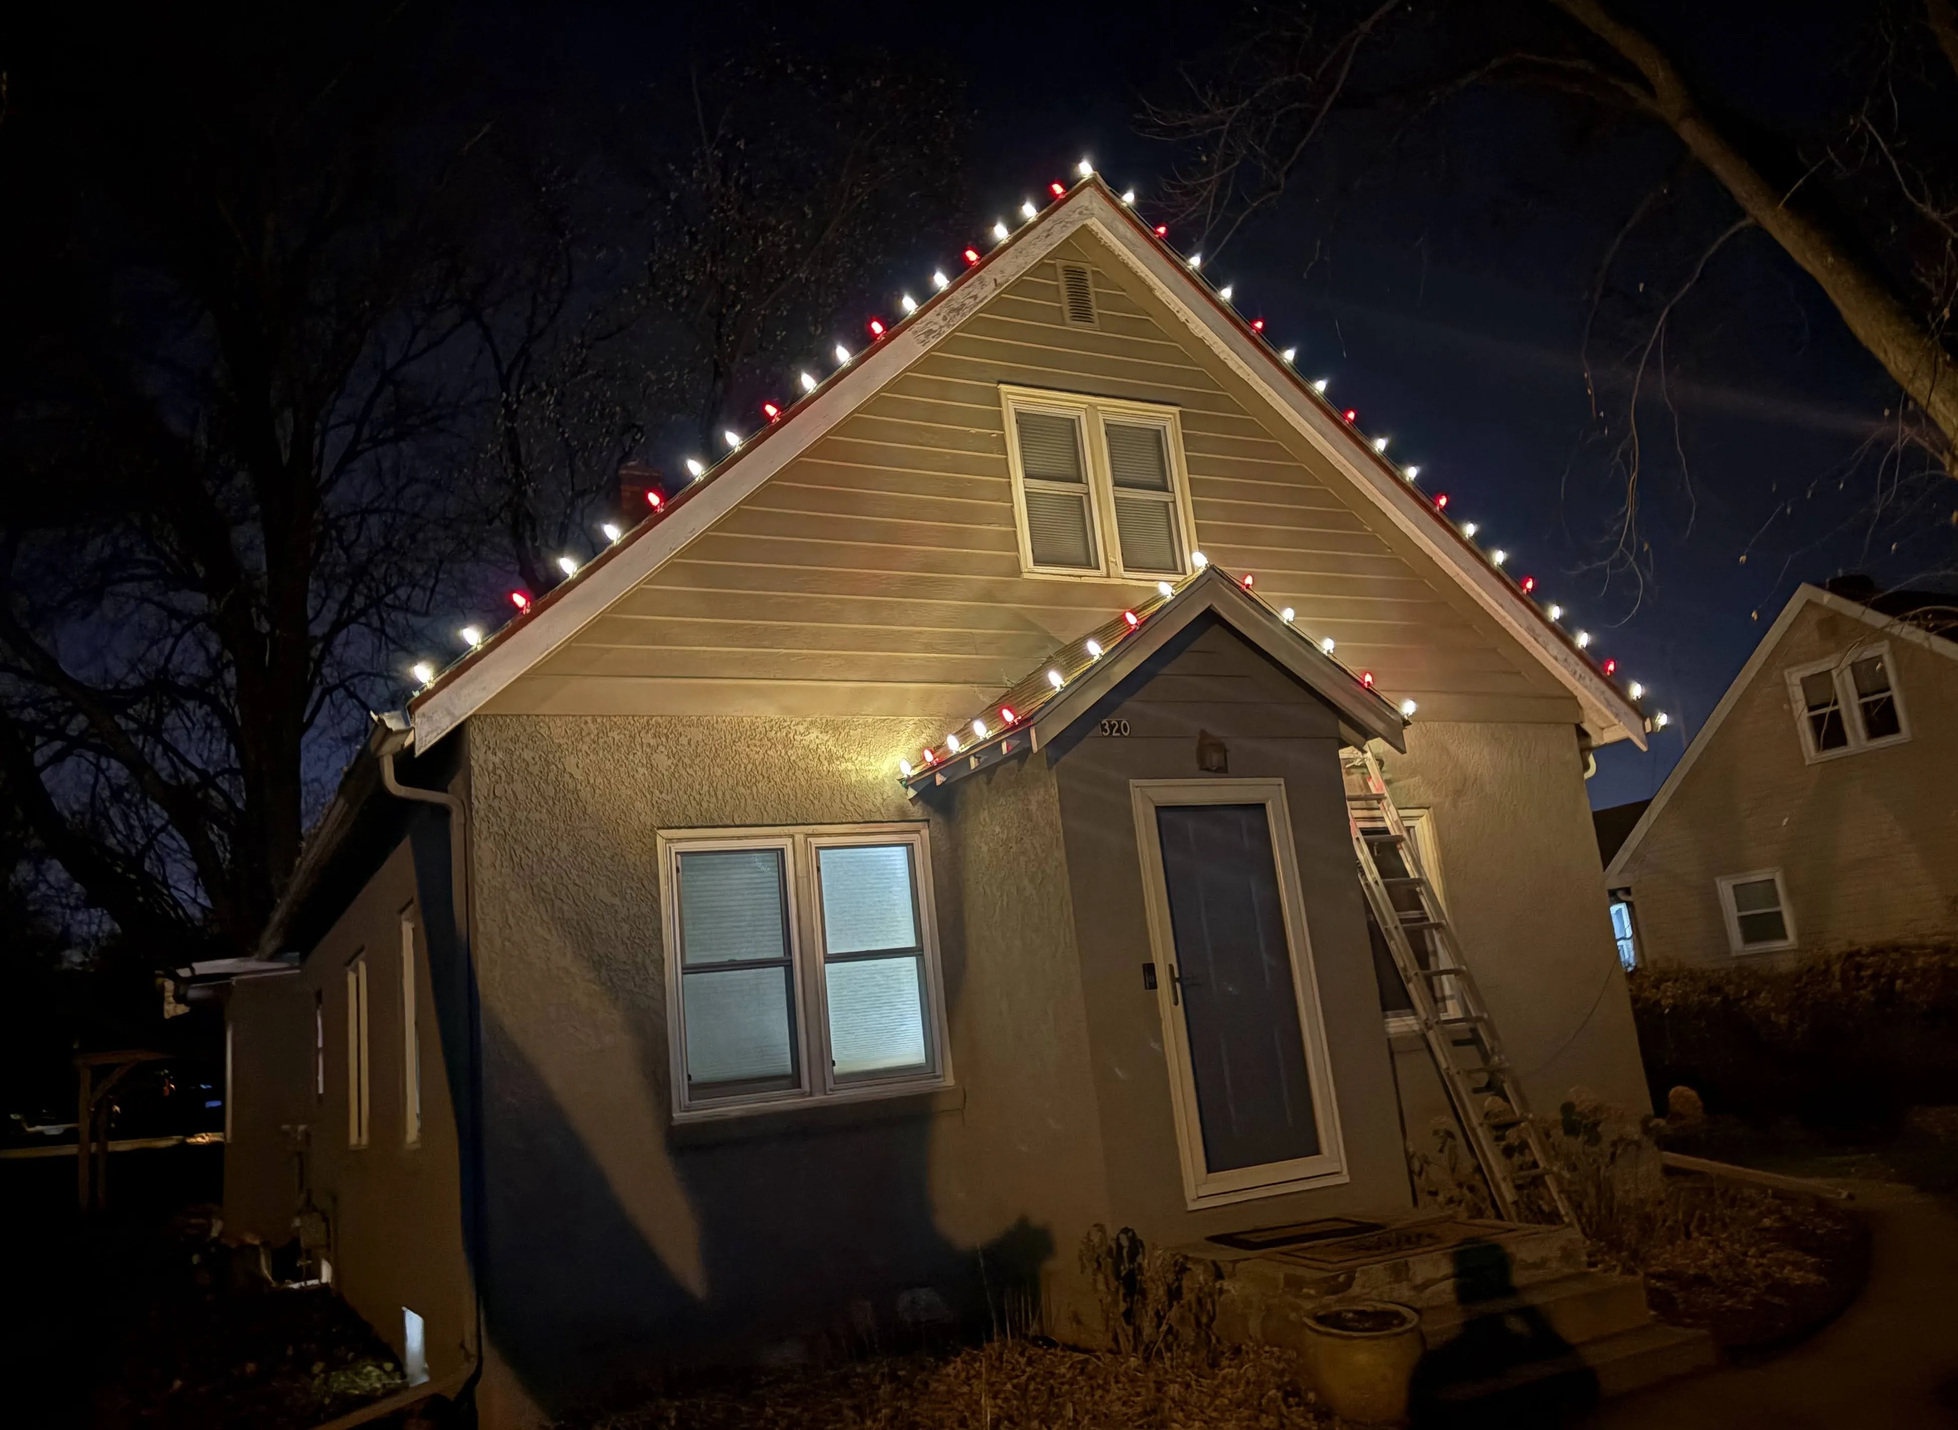
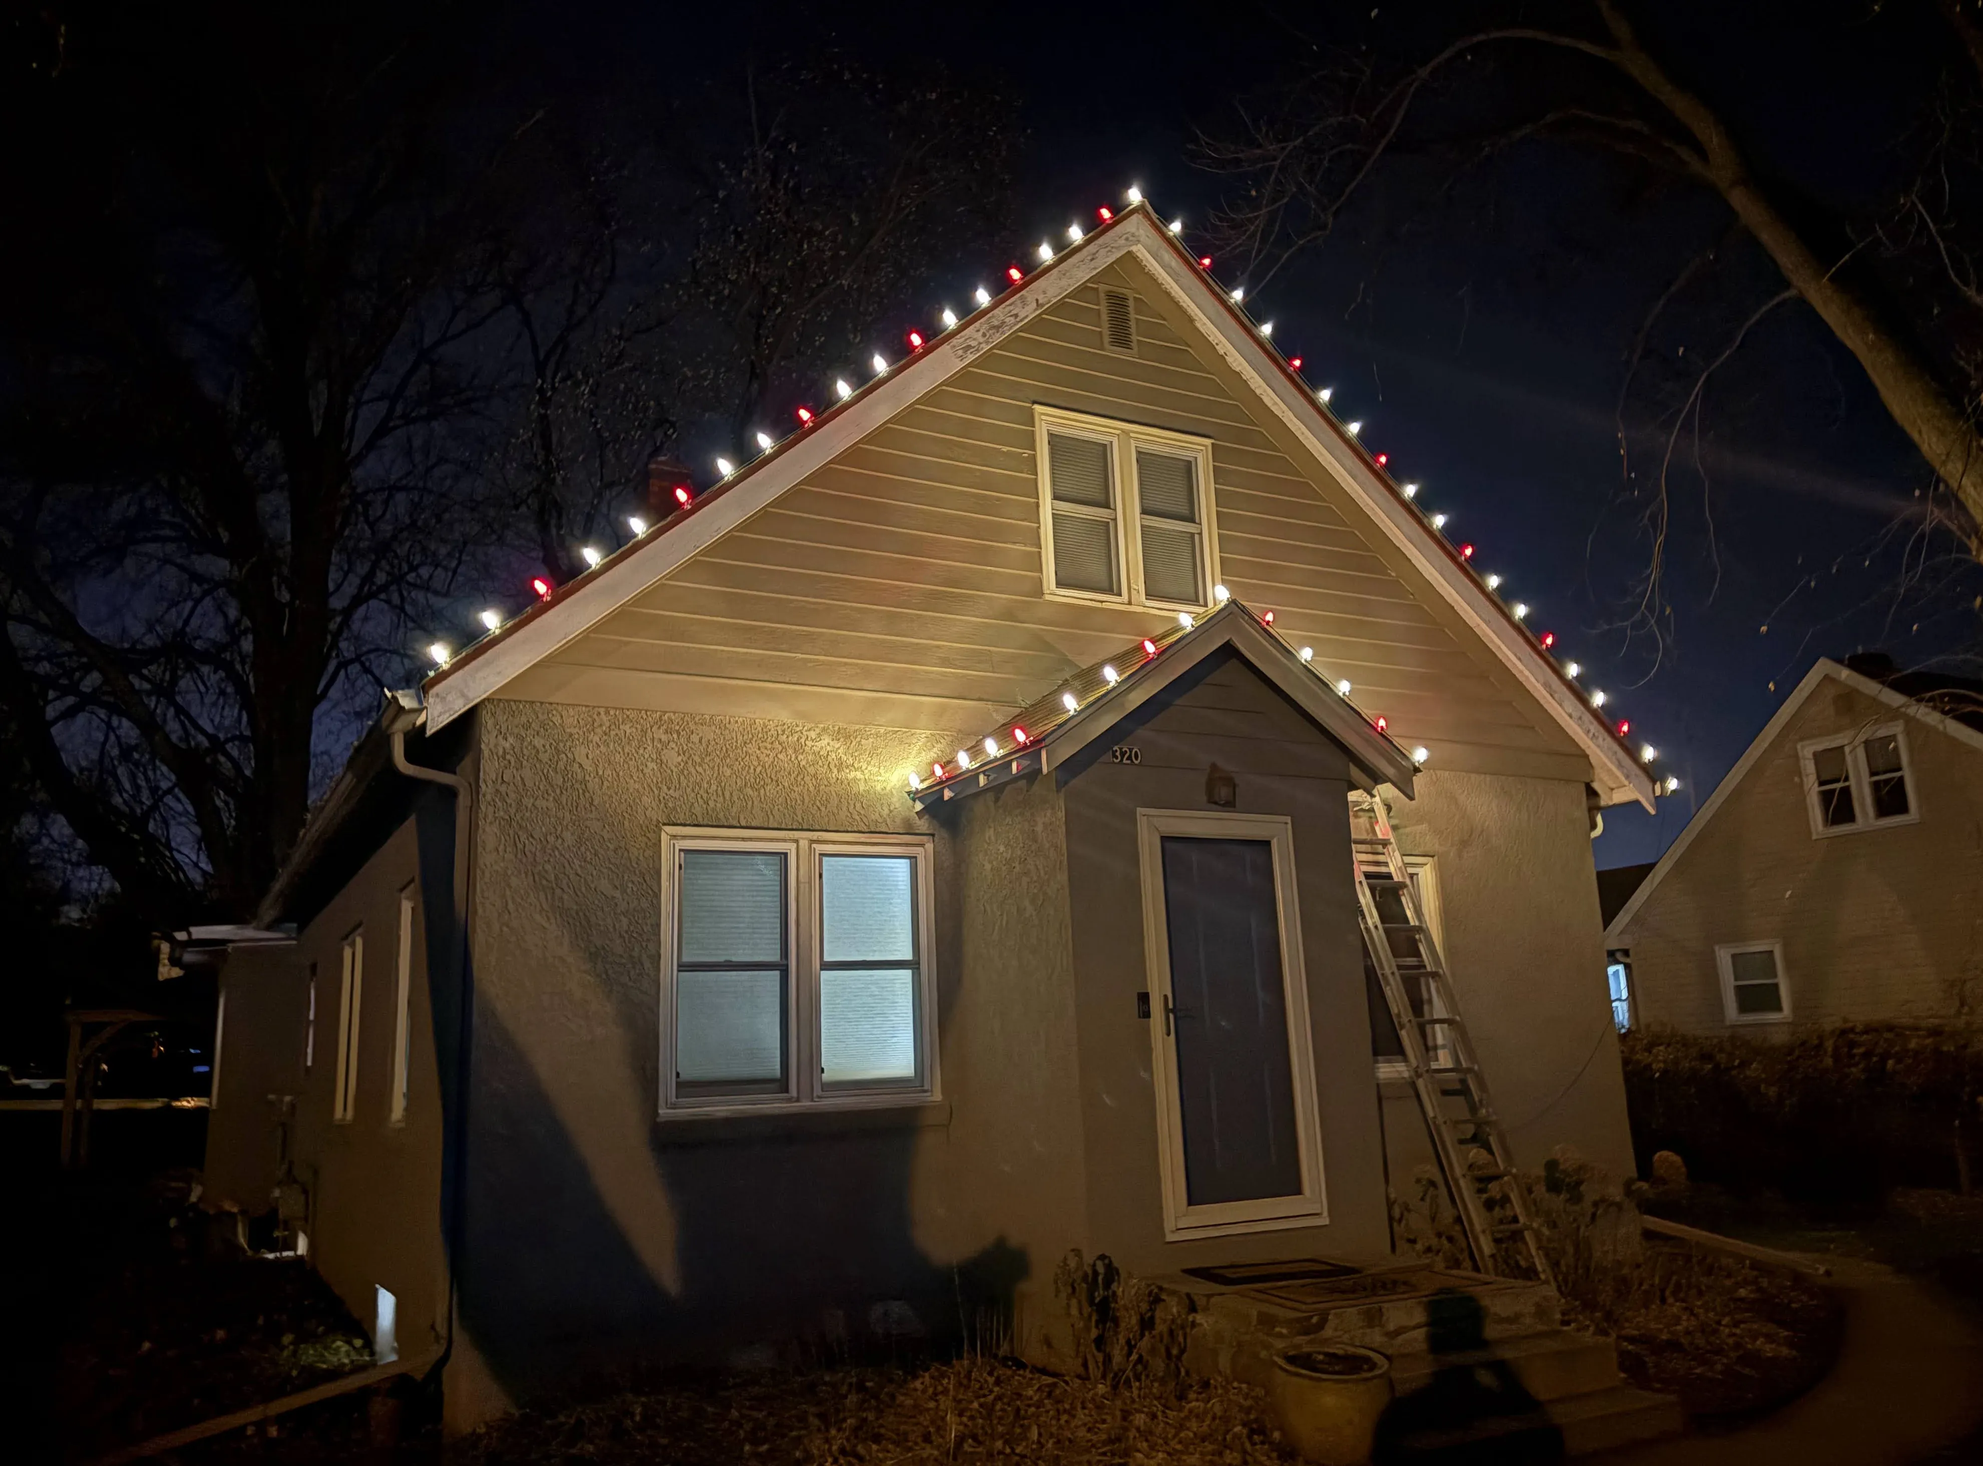
Level the candy-cane photo and pair the gables photo with copy
The candy-cane photo was still visibly tilted. Measuring the orientation
of strong near-vertical edges (door frame, window frames, house corner)
showed the earlier correction had been applied in the wrong direction:
PIL's positive rotation is counter-clockwise, which added to the lean
rather than removing it, taking it from +1.4 deg to +3.7 deg.

Rather than stack a third rotation on an already-rotated, already-cropped
file, this re-derives from the pristine original recovered out of git
history and applies a single -1.4 deg correction. Residual lean is now
+0.05 deg. Derivatives regenerate from the new source, so the gallery
picks up a slightly different intrinsic height.

The craftsman-gables photo sat alone in a full-width band with nothing
around it. It now anchors a standard .split section beside the "Why
Barta" copy, matching the pattern already used on the residential page.
That copy comes from the service's why_barta field, which until now was
defined but never rendered anywhere.

Claude-Session: https://claude.ai/code/session_01WscfW7U3vZd4WemqUDrm97

diff --git a/services/christmas-light-installation.html b/services/christmas-light-installation.html
@@ -128,7 +128,15 @@
   </section>
   <section>
     <div class="container">
-      <div class="reveal"><div class="photo " style="aspect-ratio:21/9" role="img" aria-label="White holiday lights tracing the gables of a craftsman-style home above a snow-covered driveway"><span class="imgph" aria-hidden="true"><span class="ph-label"><svg viewBox="0 0 24 24" fill="none" stroke="currentColor" stroke-width="1.9" stroke-linecap="round" stroke-linejoin="round" aria-hidden="true"><rect x="3" y="4" width="18" height="16" rx="2"/><circle cx="8.5" cy="9.5" r="1.5"/><path d="m4 17 5-5 4 4 3-3 4 4"/></svg><br>White holiday lights tracing the gables of a craftsman-style home above a snow-covered driveway</span></span><picture><source type="image/webp" srcset="../assets/img/xmas-lights-craftsman-gables-640w.webp 640w, ../assets/img/xmas-lights-craftsman-gables-1200w.webp 1200w" sizes="100vw"><img class="" src="../assets/img/xmas-lights-craftsman-gables-1200w.jpg" srcset="../assets/img/xmas-lights-craftsman-gables-640w.jpg 640w, ../assets/img/xmas-lights-craftsman-gables-1200w.jpg 1200w" sizes="100vw" alt="White holiday lights tracing the gables of a craftsman-style home above a snow-covered driveway" width="1200" height="900" loading="lazy" decoding="async" onerror="this.remove()"></picture></div></div>
+      <div class="split">
+        <div class="reveal">
+          <span class="eyebrow">Why Barta</span>
+          <h2 class="mt-1">Lights that follow your roofline</h2>
+          <p>Co-owner Jacob Barta oversees your design consultation, and co-owner Alex Barta leads the crew that installs every holiday lighting job, so you get a display planned to actually match your roofline instead of looking like an afterthought. Every install is fully insured — no icy ladders, no risk to you — and covered by in-season maintenance, so if a strand fails in January, that's on us to fix, not you.</p>
+          <a class="btn mt-3" href="../get-quote.html?svc=christmas-light-installation">Get Your Quote <svg viewBox="0 0 24 24" fill="none" stroke="currentColor" stroke-width="1.9" stroke-linecap="round" stroke-linejoin="round" aria-hidden="true"><path d="M5 12h14M13 6l6 6-6 6"/></svg></a>
+        </div>
+        <div class="reveal"><div class="photo " style="aspect-ratio:5/4" role="img" aria-label="White holiday lights tracing the gables of a craftsman-style home above a snow-covered driveway"><span class="imgph" aria-hidden="true"><span class="ph-label"><svg viewBox="0 0 24 24" fill="none" stroke="currentColor" stroke-width="1.9" stroke-linecap="round" stroke-linejoin="round" aria-hidden="true"><rect x="3" y="4" width="18" height="16" rx="2"/><circle cx="8.5" cy="9.5" r="1.5"/><path d="m4 17 5-5 4 4 3-3 4 4"/></svg><br>White holiday lights tracing the gables of a craftsman-style home above a snow-covered driveway</span></span><picture><source type="image/webp" srcset="../assets/img/xmas-lights-craftsman-gables-640w.webp 640w, ../assets/img/xmas-lights-craftsman-gables-1200w.webp 1200w" sizes="100vw"><img class="" src="../assets/img/xmas-lights-craftsman-gables-1200w.jpg" srcset="../assets/img/xmas-lights-craftsman-gables-640w.jpg 640w, ../assets/img/xmas-lights-craftsman-gables-1200w.jpg 1200w" sizes="100vw" alt="White holiday lights tracing the gables of a craftsman-style home above a snow-covered driveway" width="1200" height="900" loading="lazy" decoding="async" onerror="this.remove()"></picture></div></div>
+      </div>
     </div>
   </section>
 
@@ -153,7 +161,7 @@
         <div class="prose reveal">
           <h2 class="mt-0">Christmas Light Installation at Barta Window Washing</h2>
           <p>The magic of a beautifully lit home — without a single trip up a frozen ladder. Barta designs a custom holiday display for your rooflines, walkways, trees, and shrubs, installs premium commercial-grade lighting, and keeps it shining all season. When the holidays end, we take everything down and store it for next year. You enjoy the lights; we handle everything else.</p>
-          <div style="margin:26px 0"><div class="photo " style="aspect-ratio:3/2" role="img" aria-label="Red and white holiday lights installed along a bungalow's roofline at night"><span class="imgph" aria-hidden="true"><span class="ph-label"><svg viewBox="0 0 24 24" fill="none" stroke="currentColor" stroke-width="1.9" stroke-linecap="round" stroke-linejoin="round" aria-hidden="true"><rect x="3" y="4" width="18" height="16" rx="2"/><circle cx="8.5" cy="9.5" r="1.5"/><path d="m4 17 5-5 4 4 3-3 4 4"/></svg><br>Red and white holiday lights installed along a bungalow's roofline at night</span></span><picture><source type="image/webp" srcset="../assets/img/xmas-lights-candy-cane-640w.webp 640w, ../assets/img/xmas-lights-candy-cane-1200w.webp 1200w" sizes="100vw"><img class="" src="../assets/img/xmas-lights-candy-cane-1200w.jpg" srcset="../assets/img/xmas-lights-candy-cane-640w.jpg 640w, ../assets/img/xmas-lights-candy-cane-1200w.jpg 1200w" sizes="100vw" alt="Red and white holiday lights installed along a bungalow's roofline at night" width="1200" height="877" loading="lazy" decoding="async" onerror="this.remove()"></picture></div></div>
+          <div style="margin:26px 0"><div class="photo " style="aspect-ratio:3/2" role="img" aria-label="Red and white holiday lights installed along a bungalow's roofline at night"><span class="imgph" aria-hidden="true"><span class="ph-label"><svg viewBox="0 0 24 24" fill="none" stroke="currentColor" stroke-width="1.9" stroke-linecap="round" stroke-linejoin="round" aria-hidden="true"><rect x="3" y="4" width="18" height="16" rx="2"/><circle cx="8.5" cy="9.5" r="1.5"/><path d="m4 17 5-5 4 4 3-3 4 4"/></svg><br>Red and white holiday lights installed along a bungalow's roofline at night</span></span><picture><source type="image/webp" srcset="../assets/img/xmas-lights-candy-cane-640w.webp 640w, ../assets/img/xmas-lights-candy-cane-1200w.webp 1200w" sizes="100vw"><img class="" src="../assets/img/xmas-lights-candy-cane-1200w.jpg" srcset="../assets/img/xmas-lights-candy-cane-640w.jpg 640w, ../assets/img/xmas-lights-candy-cane-1200w.jpg 1200w" sizes="100vw" alt="Red and white holiday lights installed along a bungalow's roofline at night" width="1200" height="887" loading="lazy" decoding="async" onerror="this.remove()"></picture></div></div>
           <h3>The benefits you'll notice</h3>
           <ul class="checklist"><li><svg viewBox="0 0 24 24" fill="none" stroke="currentColor" stroke-width="1.9" stroke-linecap="round" stroke-linejoin="round" aria-hidden="true"><circle cx="12" cy="12" r="9"/><path d="m8.5 12 2.5 2.5 4.5-5"/></svg> <span><strong>Custom-cut strands:</strong> Every strand is measured and cut to your roofline and peaks — no extra lights or cords hanging off your home.</span></li><li><svg viewBox="0 0 24 24" fill="none" stroke="currentColor" stroke-width="1.9" stroke-linecap="round" stroke-linejoin="round" aria-hidden="true"><circle cx="12" cy="12" r="9"/><path d="m8.5 12 2.5 2.5 4.5-5"/></svg> <span><strong>Premium commercial-grade LED bulbs:</strong> Bright, energy-efficient LED bulbs built to outlast a Minnesota winter and look sharp season after season.</span></li><li><svg viewBox="0 0 24 24" fill="none" stroke="currentColor" stroke-width="1.9" stroke-linecap="round" stroke-linejoin="round" aria-hidden="true"><circle cx="12" cy="12" r="9"/><path d="m8.5 12 2.5 2.5 4.5-5"/></svg> <span><strong>Takedown &amp; storage included:</strong> When the season's over, we take it all down and store it for you — built into your price, not an extra add-on.</span></li><li><svg viewBox="0 0 24 24" fill="none" stroke="currentColor" stroke-width="1.9" stroke-linecap="round" stroke-linejoin="round" aria-hidden="true"><circle cx="12" cy="12" r="9"/><path d="m8.5 12 2.5 2.5 4.5-5"/></svg> <span><strong>Clips that last:</strong> Heavy-duty clips grip any roofline, shingle, or gutter without damage — built to hold through the hardest winter months.</span></li><li><svg viewBox="0 0 24 24" fill="none" stroke="currentColor" stroke-width="1.9" stroke-linecap="round" stroke-linejoin="round" aria-hidden="true"><circle cx="12" cy="12" r="9"/><path d="m8.5 12 2.5 2.5 4.5-5"/></svg> <span><strong>Proper safety equipment:</strong> Our insured crew climbs so you don't have to — full safety gear every time, so nobody's risking a fall on an icy ladder.</span></li><li><svg viewBox="0 0 24 24" fill="none" stroke="currentColor" stroke-width="1.9" stroke-linecap="round" stroke-linejoin="round" aria-hidden="true"><circle cx="12" cy="12" r="9"/><path d="m8.5 12 2.5 2.5 4.5-5"/></svg> <span><strong>Upfront, honest pricing:</strong> Clear pricing before we start — no surprise fees and no pressure, just an honest quote for a beautifully lit home.</span></li></ul>
           <h3>What's included</h3>

diff --git a/gallery.html b/gallery.html
@@ -114,7 +114,7 @@
   <span class="ba-handle"></span>
   <span class="ba-knob"><svg viewBox="0 0 24 24" fill="none" stroke="currentColor" stroke-width="1.9" stroke-linecap="round" stroke-linejoin="round" aria-hidden="true"><path d="M12 3v18M8 7 4 11l4 4M16 7l4 4-4 4"/></svg></span>
   <input class="ba-range" type="range" min="0" max="100" value="50" aria-label="Reveal more of the before or after image">
-</div></figure><figure class="reveal"><picture><source type="image/webp" srcset="assets/img/svc-hand-scrubbing-640w.webp 640w, assets/img/svc-hand-scrubbing-1200w.webp 1200w" sizes="(max-width: 760px) 50vw, 33vw"><img class="" src="assets/img/svc-hand-scrubbing-1200w.jpg" srcset="assets/img/svc-hand-scrubbing-640w.jpg 640w, assets/img/svc-hand-scrubbing-1200w.jpg 1200w" sizes="(max-width: 760px) 50vw, 33vw" alt="Hand-scrubbing a window pane with an abrasive pad" width="1126" height="1499" loading="lazy" decoding="async"></picture></figure><figure class="reveal"><picture><source type="image/webp" srcset="assets/img/svc-christmas-light-installation-640w.webp 640w, assets/img/svc-christmas-light-installation-1200w.webp 1200w" sizes="(max-width: 760px) 50vw, 33vw"><img class="" src="assets/img/svc-christmas-light-installation-1200w.jpg" srcset="assets/img/svc-christmas-light-installation-640w.jpg 640w, assets/img/svc-christmas-light-installation-1200w.jpg 1200w" sizes="(max-width: 760px) 50vw, 33vw" alt="Warm white holiday lights installed along a home's roofline at night" width="1200" height="1600" loading="lazy" decoding="async"></picture></figure><figure class="reveal"><picture><source type="image/webp" srcset="assets/img/xmas-lights-candy-cane-640w.webp 640w, assets/img/xmas-lights-candy-cane-1200w.webp 1200w" sizes="(max-width: 760px) 50vw, 33vw"><img class="" src="assets/img/xmas-lights-candy-cane-1200w.jpg" srcset="assets/img/xmas-lights-candy-cane-640w.jpg 640w, assets/img/xmas-lights-candy-cane-1200w.jpg 1200w" sizes="(max-width: 760px) 50vw, 33vw" alt="Red and white holiday lights installed along a bungalow's roofline at night" width="1200" height="877" loading="lazy" decoding="async"></picture></figure><figure class="reveal"><picture><source type="image/webp" srcset="assets/img/xmas-lights-craftsman-gables-640w.webp 640w, assets/img/xmas-lights-craftsman-gables-1200w.webp 1200w" sizes="(max-width: 760px) 50vw, 33vw"><img class="" src="assets/img/xmas-lights-craftsman-gables-1200w.jpg" srcset="assets/img/xmas-lights-craftsman-gables-640w.jpg 640w, assets/img/xmas-lights-craftsman-gables-1200w.jpg 1200w" sizes="(max-width: 760px) 50vw, 33vw" alt="White holiday lights tracing the gables of a craftsman-style home above a snow-covered driveway" width="1200" height="900" loading="lazy" decoding="async"></picture></figure><figure class="gallery-ba reveal"><div class="ba" role="group" aria-label="Before and after comparison slider">
+</div></figure><figure class="reveal"><picture><source type="image/webp" srcset="assets/img/svc-hand-scrubbing-640w.webp 640w, assets/img/svc-hand-scrubbing-1200w.webp 1200w" sizes="(max-width: 760px) 50vw, 33vw"><img class="" src="assets/img/svc-hand-scrubbing-1200w.jpg" srcset="assets/img/svc-hand-scrubbing-640w.jpg 640w, assets/img/svc-hand-scrubbing-1200w.jpg 1200w" sizes="(max-width: 760px) 50vw, 33vw" alt="Hand-scrubbing a window pane with an abrasive pad" width="1126" height="1499" loading="lazy" decoding="async"></picture></figure><figure class="reveal"><picture><source type="image/webp" srcset="assets/img/svc-christmas-light-installation-640w.webp 640w, assets/img/svc-christmas-light-installation-1200w.webp 1200w" sizes="(max-width: 760px) 50vw, 33vw"><img class="" src="assets/img/svc-christmas-light-installation-1200w.jpg" srcset="assets/img/svc-christmas-light-installation-640w.jpg 640w, assets/img/svc-christmas-light-installation-1200w.jpg 1200w" sizes="(max-width: 760px) 50vw, 33vw" alt="Warm white holiday lights installed along a home's roofline at night" width="1200" height="1600" loading="lazy" decoding="async"></picture></figure><figure class="reveal"><picture><source type="image/webp" srcset="assets/img/xmas-lights-candy-cane-640w.webp 640w, assets/img/xmas-lights-candy-cane-1200w.webp 1200w" sizes="(max-width: 760px) 50vw, 33vw"><img class="" src="assets/img/xmas-lights-candy-cane-1200w.jpg" srcset="assets/img/xmas-lights-candy-cane-640w.jpg 640w, assets/img/xmas-lights-candy-cane-1200w.jpg 1200w" sizes="(max-width: 760px) 50vw, 33vw" alt="Red and white holiday lights installed along a bungalow's roofline at night" width="1200" height="887" loading="lazy" decoding="async"></picture></figure><figure class="reveal"><picture><source type="image/webp" srcset="assets/img/xmas-lights-craftsman-gables-640w.webp 640w, assets/img/xmas-lights-craftsman-gables-1200w.webp 1200w" sizes="(max-width: 760px) 50vw, 33vw"><img class="" src="assets/img/xmas-lights-craftsman-gables-1200w.jpg" srcset="assets/img/xmas-lights-craftsman-gables-640w.jpg 640w, assets/img/xmas-lights-craftsman-gables-1200w.jpg 1200w" sizes="(max-width: 760px) 50vw, 33vw" alt="White holiday lights tracing the gables of a craftsman-style home above a snow-covered driveway" width="1200" height="900" loading="lazy" decoding="async"></picture></figure><figure class="gallery-ba reveal"><div class="ba" role="group" aria-label="Before and after comparison slider">
   <picture><source type="image/webp" srcset="assets/img/ba-gutter-before-640w.webp 640w, assets/img/ba-gutter-before-1200w.webp 1200w" sizes="(max-width: 760px) 50vw, 33vw"><img class="ba-img ba-before" src="assets/img/ba-gutter-before-1200w.jpg" srcset="assets/img/ba-gutter-before-640w.jpg 640w, assets/img/ba-gutter-before-1200w.jpg 1200w" sizes="(max-width: 760px) 50vw, 33vw" alt="Before professional cleaning — visible dirt, algae, and water spots" width="1100" height="1466" loading="lazy" decoding="async"></picture>
   <picture><source type="image/webp" srcset="assets/img/ba-gutter-after-640w.webp 640w, assets/img/ba-gutter-after-1200w.webp 1200w" sizes="(max-width: 760px) 50vw, 33vw"><img class="ba-img ba-after" src="assets/img/ba-gutter-after-1200w.jpg" srcset="assets/img/ba-gutter-after-640w.jpg 640w, assets/img/ba-gutter-after-1200w.jpg 1200w" sizes="(max-width: 760px) 50vw, 33vw" alt="After Barta professional cleaning — bright, spotless, like-new surface" width="1100" height="1466" loading="lazy" decoding="async"></picture>
   <span class="ba-label before">Before</span>

diff --git a/build/build.py b/build/build.py
@@ -523,7 +523,15 @@ def build_service(svc):
   </section>
   <section>
     <div class="container">
-      <div class="reveal">{C.photo("assets/img/xmas-lights-craftsman-gables.jpg", IMAGE_ALT["assets/img/xmas-lights-craftsman-gables.jpg"], ratio="21/9", depth=depth)}</div>
+      <div class="split">
+        <div class="reveal">
+          <span class="eyebrow">Why Barta</span>
+          <h2 class="mt-1">Lights that follow your roofline</h2>
+          <p>{svc['why_barta']}</p>
+          <a class="btn mt-3" href="{root}get-quote.html?svc={checkbox_slug}">Get Your Quote {icon('arrow')}</a>
+        </div>
+        <div class="reveal">{C.photo("assets/img/xmas-lights-craftsman-gables.jpg", IMAGE_ALT["assets/img/xmas-lights-craftsman-gables.jpg"], ratio="5/4", depth=depth)}</div>
+      </div>
     </div>
   </section>"""
 
